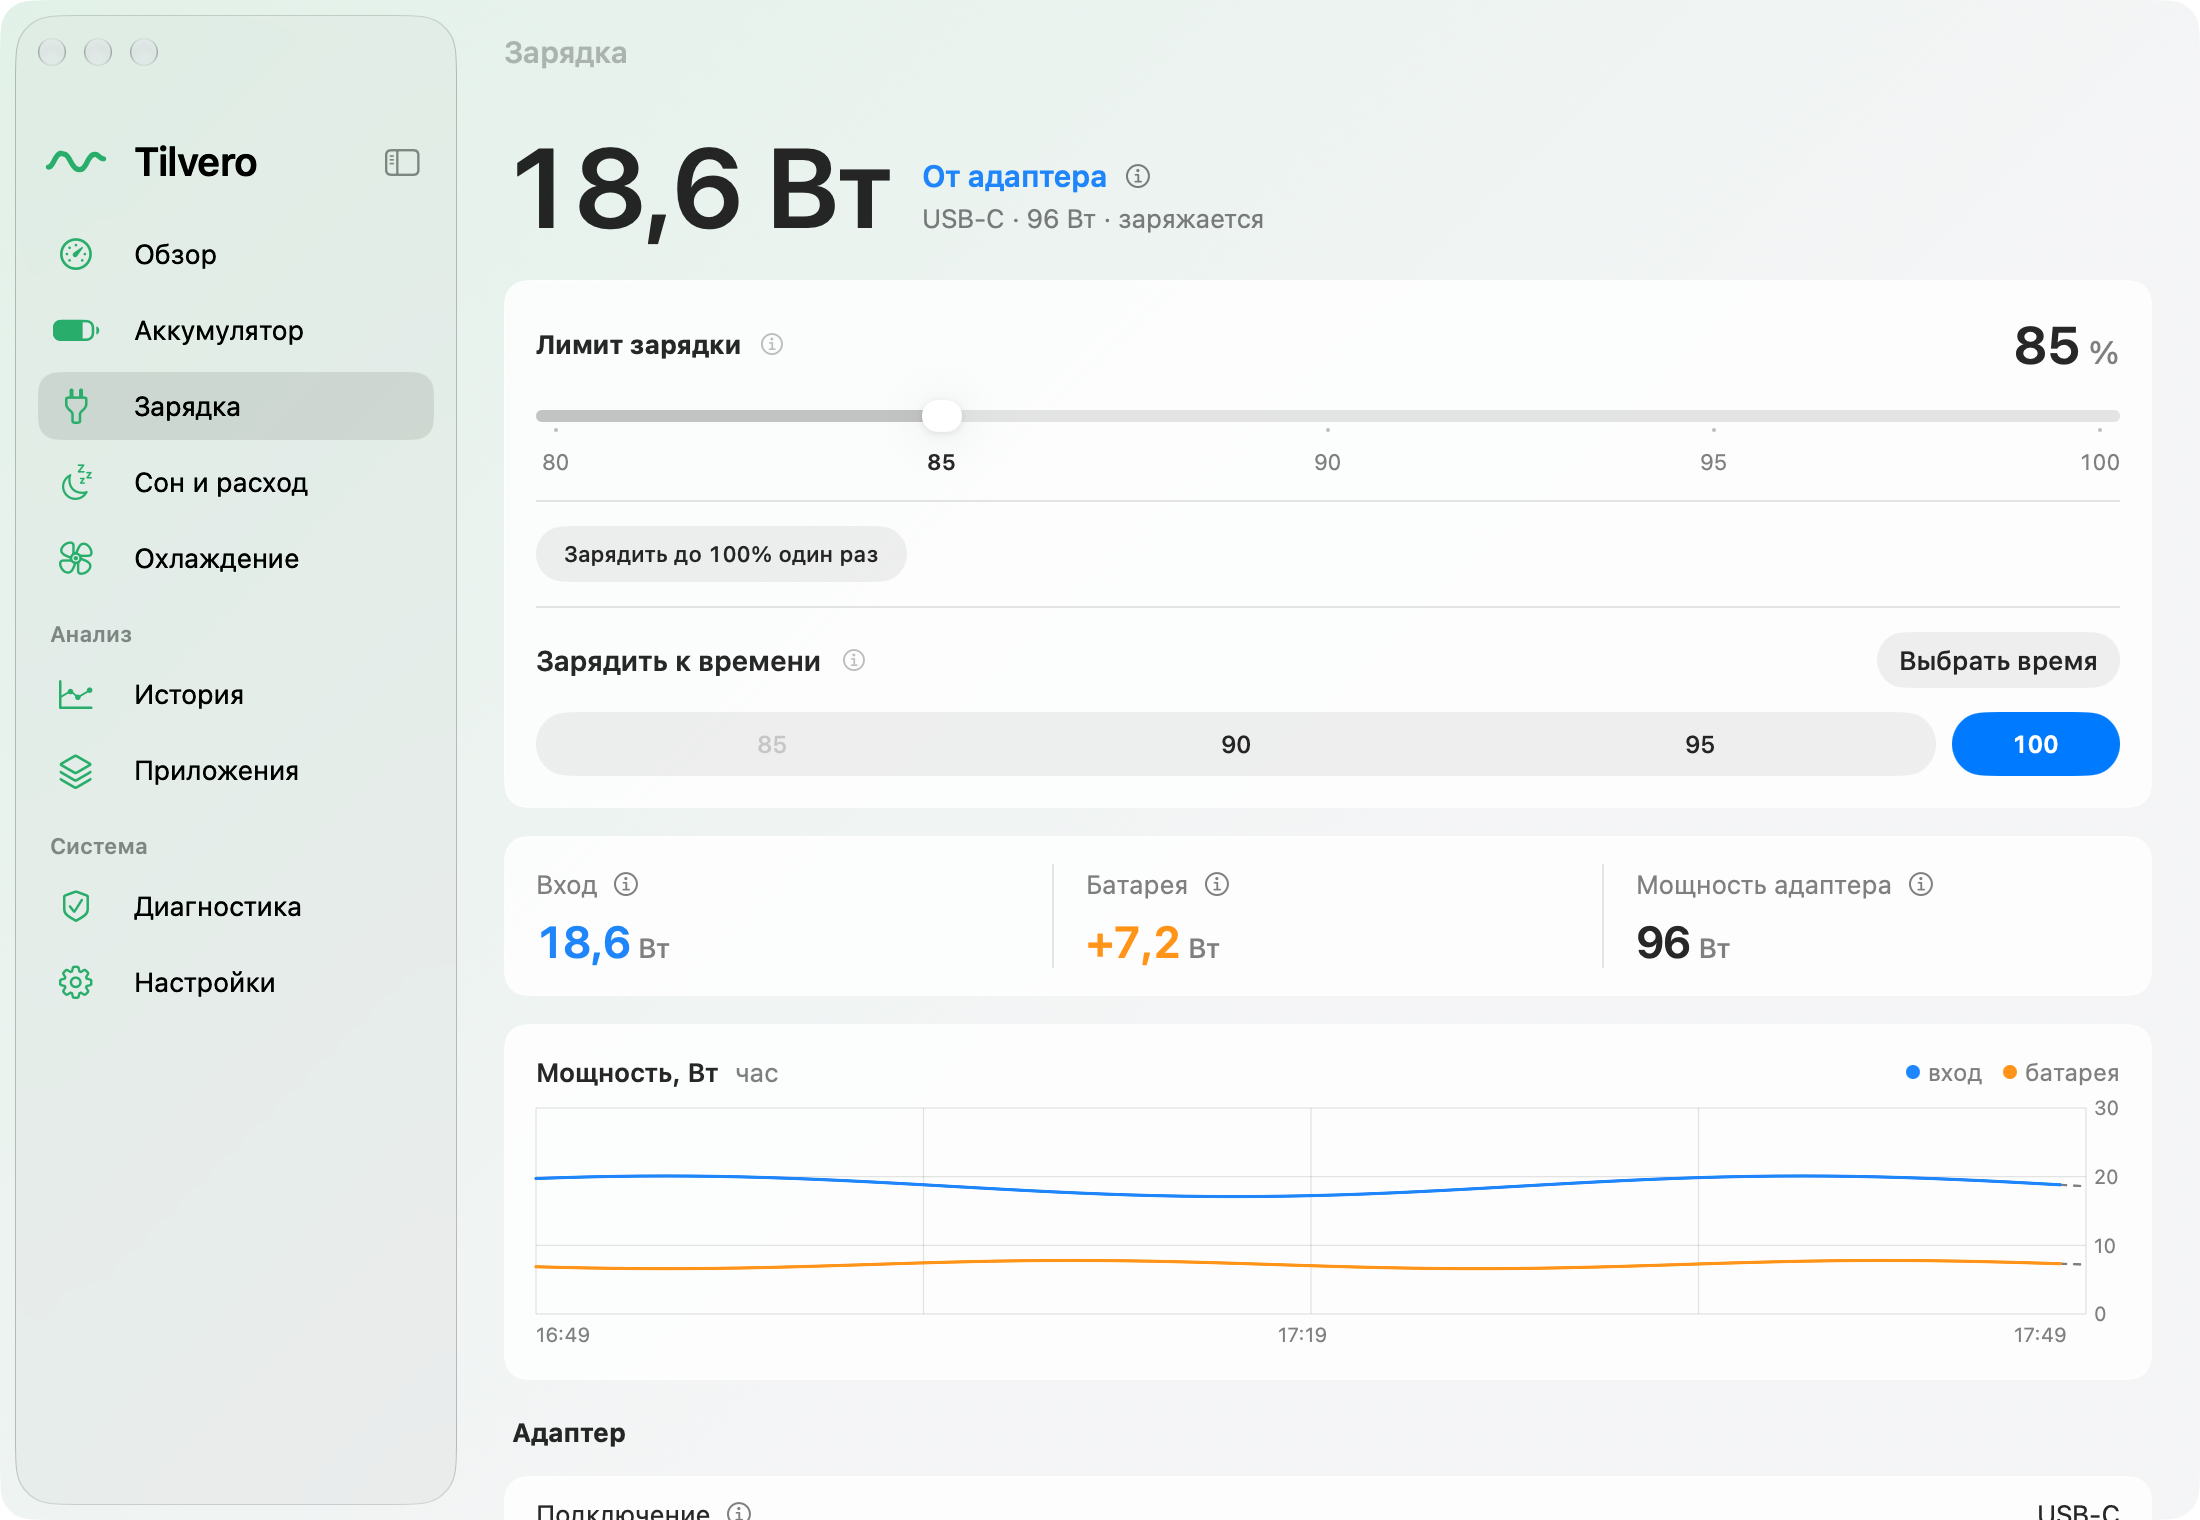
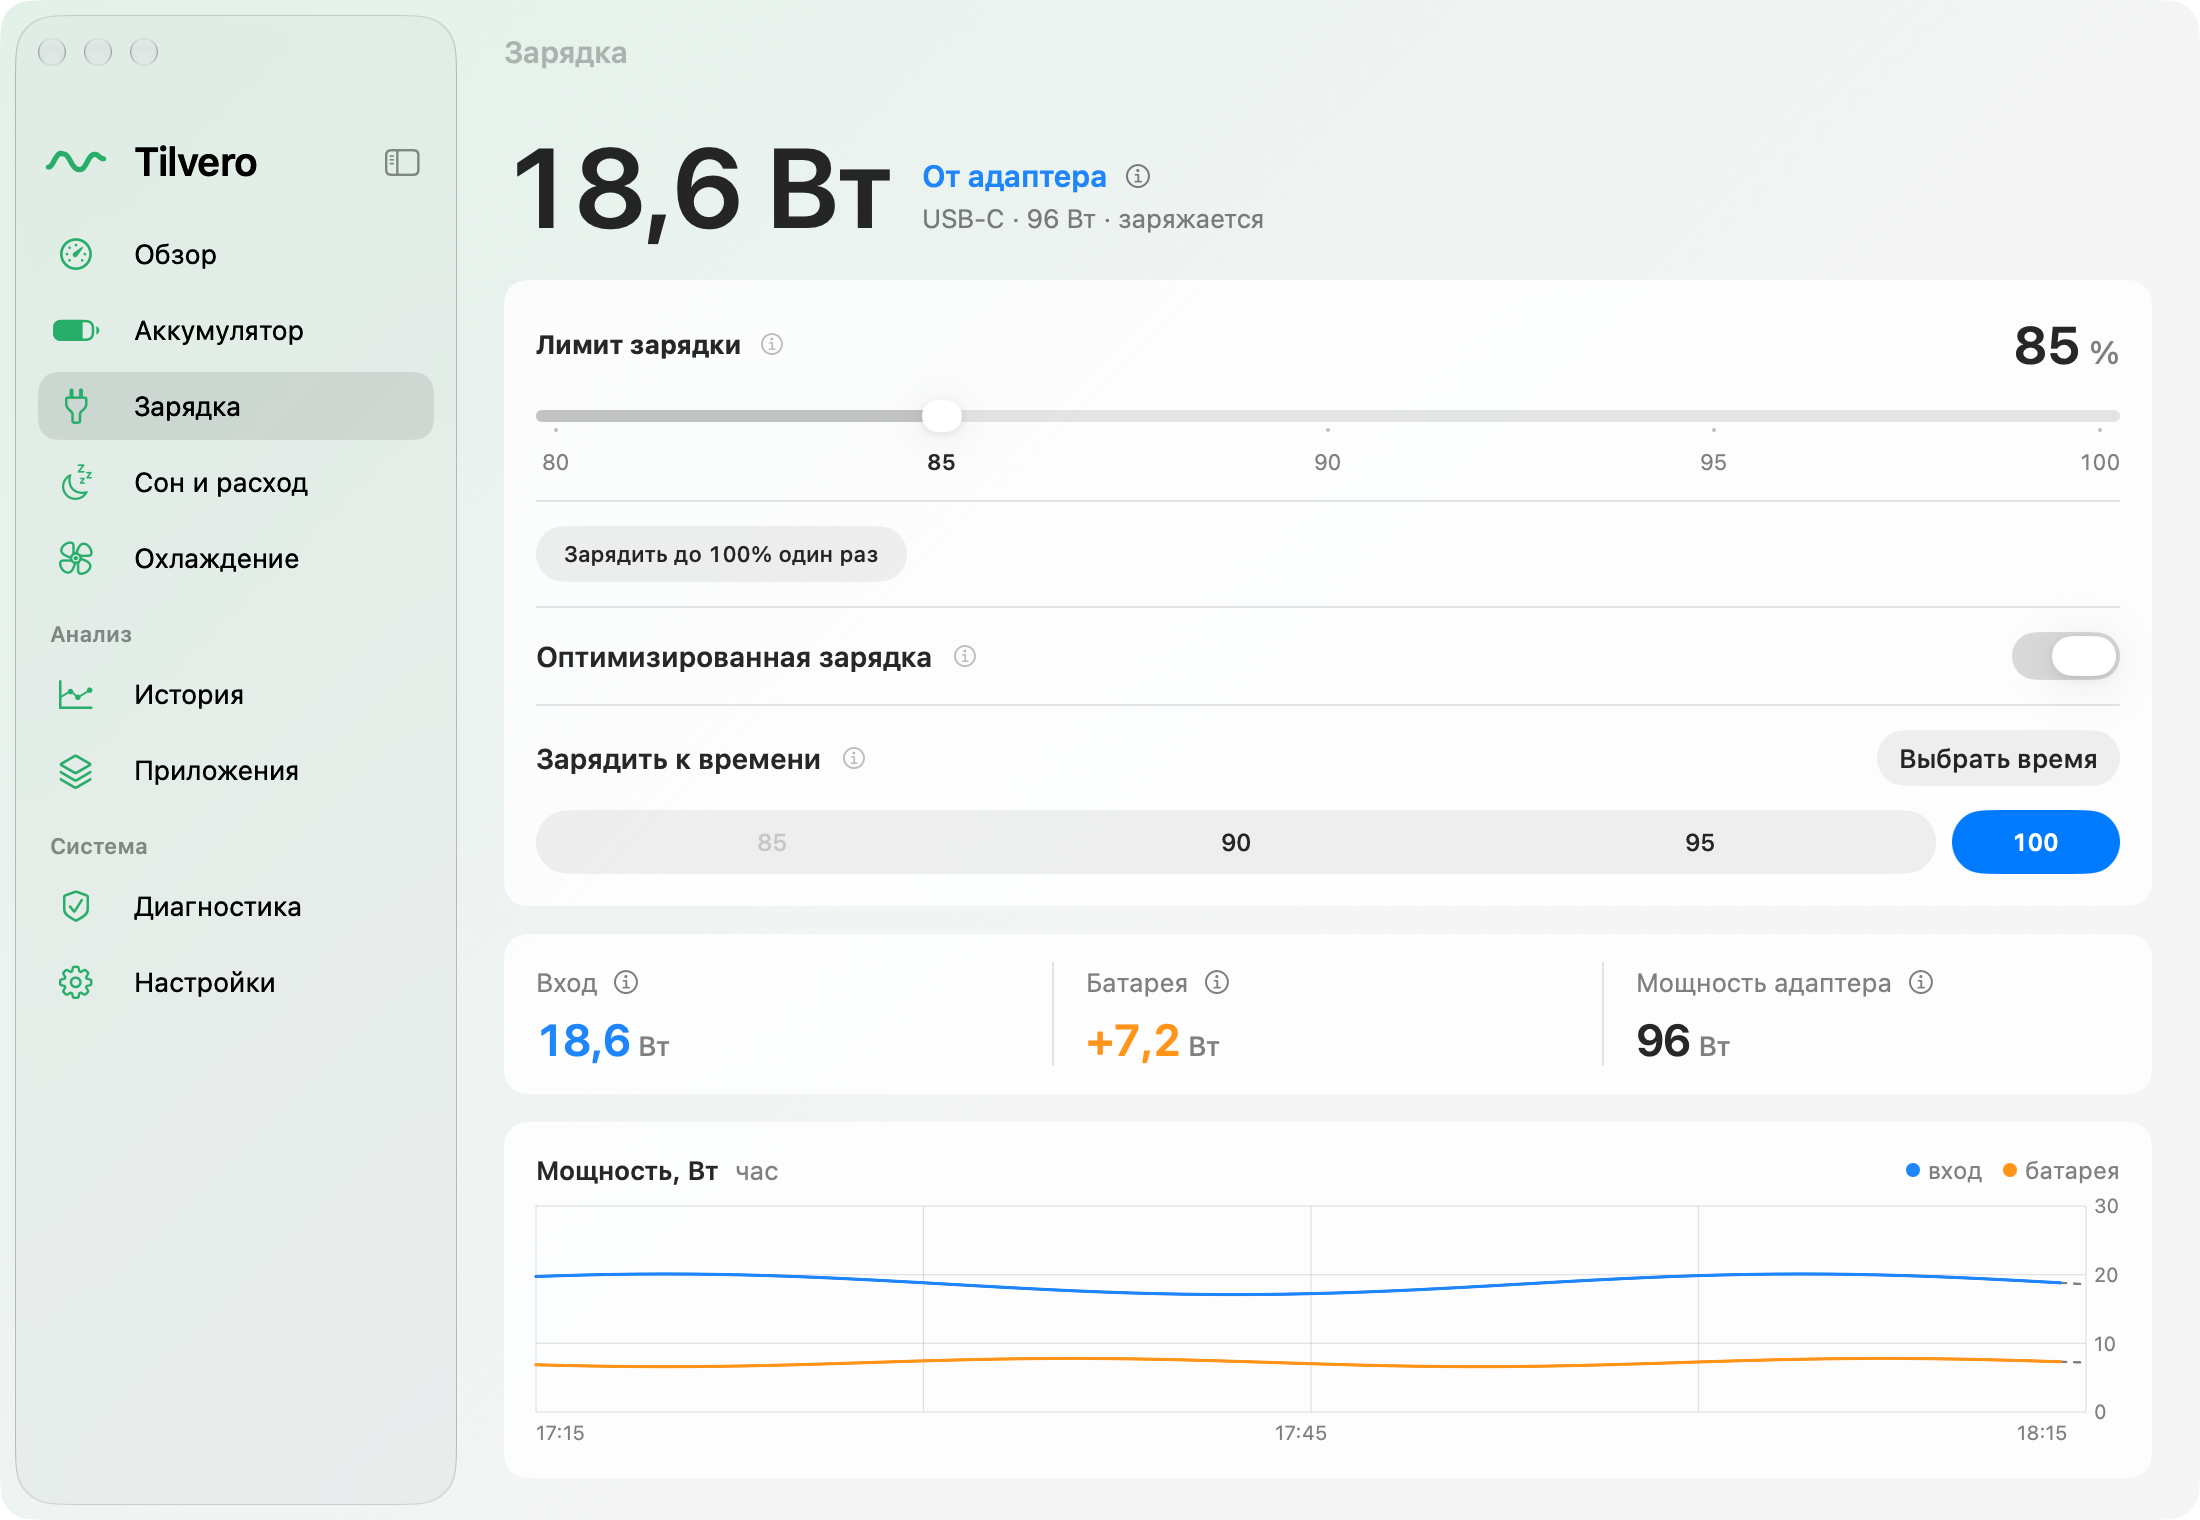
0.8.2: README screenshots with the Optimized charging switch, test counts

diff --git a/docs/TESTING.md b/docs/TESTING.md
@@ -22,7 +22,7 @@ The scripts select the installed full Xcode toolchain for their own process. The
 
 Default automated tests use fixtures for controls. They do not qualify physical charge cutoff, battery discharge, real fan control, privileged enrollment, closed-lid operation or recovery under every OS failure. Closed-lid tests inject all writers; a real signed trial requires the separate [device and restoration checks](CLOSED_LID.md).
 
-The 0.8.2 source passed the default suite on 2026-11-27: **<<SWIFT_COUNT>> Swift tests across all bundles (<<SKIPPED>> skipped, 0 failures) and <<PY_COUNT>> Python release-tool tests**. The 0.8.1 source passed with 1,406 Swift tests. Window pages are rendered from fixtures and the lid watchdog is tested with real child processes. Three things were also checked by hand on one Mac, outside the automated suite: the watchdog with a signed build (`kill -9`: normal sleep back within a second), the charge-limit slider (both ways, on the adapter and on battery, with System Settings in sync, 2026-11-27) and a charge-by-time scheduled wake with the lid closed (2026-11-24). The automated tests themselves never change charging or schedule a wake. These are local code/fixture results on one Mac. The earlier Sleep-controls source milestone passed **557 Swift tests and 61 Python release-tool tests**, plus SwiftPM Release and Xcode Debug app builds. All 13 prototype migration tests passed. The prior first-source-preview baseline passed 362 Swift tests and 45 Python release-tool tests.
+The 0.8.2 source passed the default suite on 2026-11-27: **1,470 Swift tests across all bundles (3 skipped, 0 failures) and 86 Python release-tool tests**. The 0.8.1 source passed with 1,406 Swift tests. Window pages are rendered from fixtures and the lid watchdog is tested with real child processes. Three things were also checked by hand on one Mac, outside the automated suite: the watchdog with a signed build (`kill -9`: normal sleep back within a second), the charge-limit slider (both ways, on the adapter and on battery, with System Settings in sync, 2026-11-27) and a charge-by-time scheduled wake with the lid closed (2026-11-24). The automated tests themselves never change charging or schedule a wake. These are local code/fixture results on one Mac. The earlier Sleep-controls source milestone passed **557 Swift tests and 61 Python release-tool tests**, plus SwiftPM Release and Xcode Debug app builds. All 13 prototype migration tests passed. The prior first-source-preview baseline passed 362 Swift tests and 45 Python release-tool tests.
 
 An earlier complete run failed 8 migration-journal read/reopen operations with `EPERM` for `completeFileProtectionUnlessOpen`. A standalone Foundation probe reproduced the failure without Tilvero code. Later, fresh protected-file roundtrips and the same previously failing synthetic files reopened/read successfully with unchanged Class B protection and `0600` permissions; the full unchanged-source suite then passed. No protection/permission/entitlement change, test skip or migration bypass was used. The exact external authentication/system transition remains unknown. Verify authenticated host protection availability when reproducing this class of failure rather than weakening file protection. These are local code/fixture results, not Developer ID, notarization, downloaded-install or hardware-support claims.
 

diff --git a/docs/COMPATIBILITY.md b/docs/COMPATIBILITY.md
@@ -76,7 +76,7 @@ privileged qualification gate. See the [helper architecture](../Helper/README.md
 
 ## Validation and distribution
 
-The 0.8.2 source passed the default suite on 2026-11-27 (**<<SWIFT_COUNT>> Swift tests, <<SKIPPED>> skipped, 0 failures, and <<PY_COUNT>> Python release-tool tests**). The 0.8.1 source passed with 1,406 Swift tests and 86 Python release-tool tests. The earlier Sleep-controls source milestone passed the complete **557 Swift tests and 61 Python release-tool tests**, built SwiftPM Release and Xcode Debug bundles, and verified local ad-hoc integrity. An earlier complete run failed eight protected migration-journal operations; a standalone Foundation probe reproduced unavailable Class B reopen/read operations. A later unchanged-source run passed after those protected operations became available, with the same protection class and `0600` permissions. The precise external authentication/system transition remains unknown. These results apply to the recorded source milestone, not automatically
+The 0.8.2 source passed the default suite on 2026-11-27 (**1,470 Swift tests, 3 skipped, 0 failures, and 86 Python release-tool tests**). The 0.8.1 source passed with 1,406 Swift tests and 86 Python release-tool tests. The earlier Sleep-controls source milestone passed the complete **557 Swift tests and 61 Python release-tool tests**, built SwiftPM Release and Xcode Debug bundles, and verified local ad-hoc integrity. An earlier complete run failed eight protected migration-journal operations; a standalone Foundation probe reproduced unavailable Class B reopen/read operations. A later unchanged-source run passed after those protected operations became available, with the same protection class and `0600` permissions. The precise external authentication/system transition remains unknown. These results apply to the recorded source milestone, not automatically
 to a later release commit. [Testing and validation](TESTING.md) summarizes public coverage and its limits.
 
 **Implemented** means code exists. **Fixture-tested** means deterministic inputs
